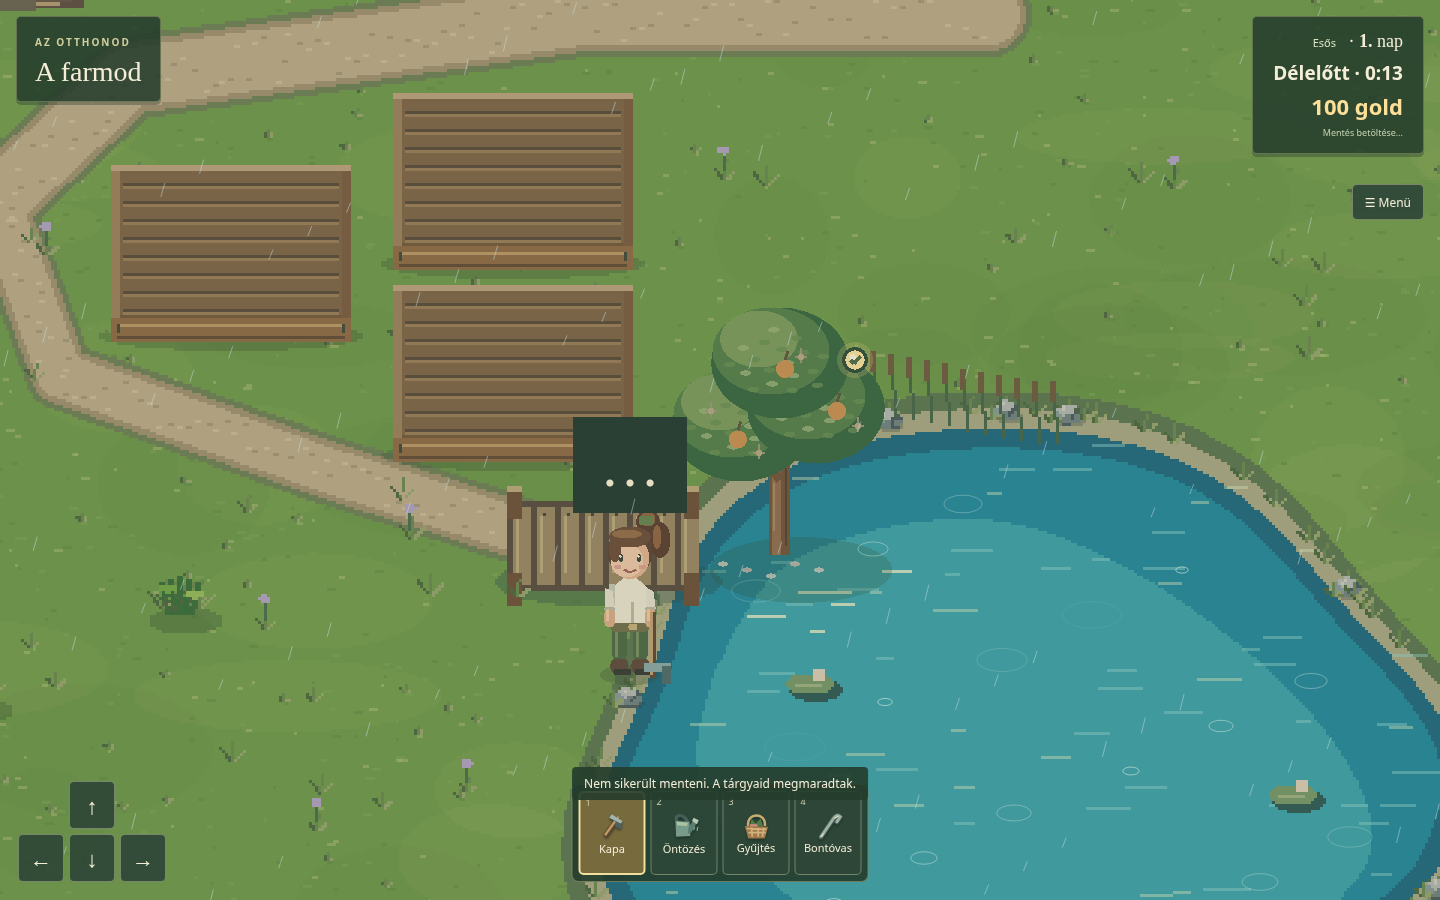
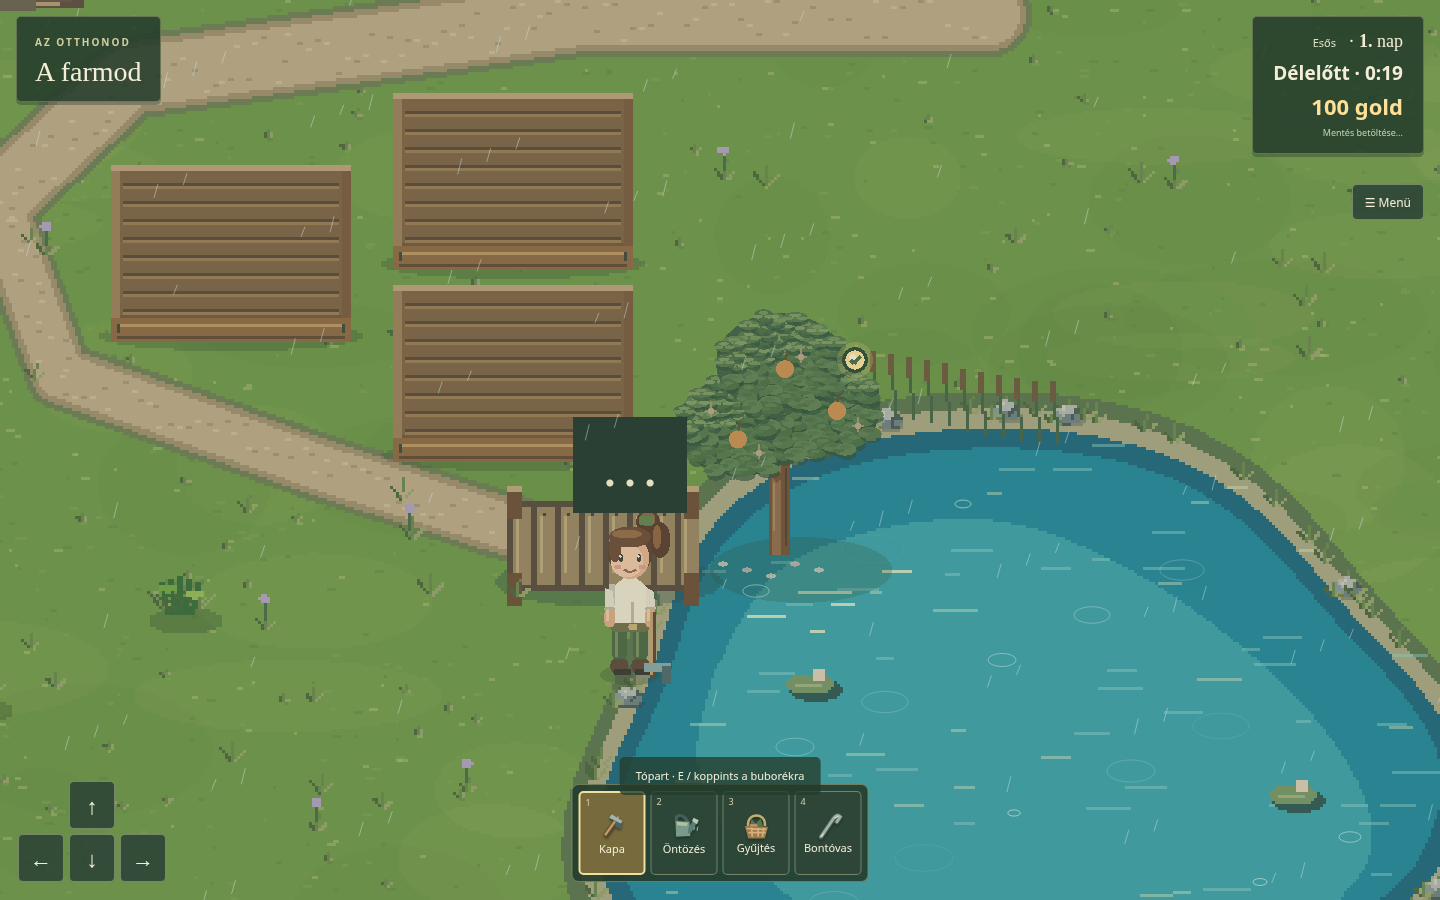
Replace broad canopy highlights with small shaded leaf sprays

Changed region(s): [[0.4688, 0.3422, 0.625, 0.56], [0.375, 0.84, 0.625, 0.9022]]

diff --git a/src/woodland-tree.ts b/src/woodland-tree.ts
@@ -1,3 +1,4 @@
+import {drawLeafCrown} from './tree-foliage';
 import {natureTreeClear} from './nature-resources';
 import Phaser from 'phaser';
 export function drawWoodlandTree(g:Phaser.GameObjects.Graphics,random:()=>number,x:number,y:number,kind:number,s=1){
@@ -18,12 +19,10 @@ export function drawWoodlandTree(g:Phaser.GameObjects.Graphics,random:()=>number
   if(kind===2){for(let i=0;i<4;i++){const yy=y-90*s+i*19*s,w=(15+i*8)*s;poly([x,yy,x-w*.31,yy+12*s,x-w*.18,yy+11*s,x-w*.68,yy+25*s,x-w*.48,yy+23*s,x-w,yy+35*s,x-w*.35,yy+32*s,x,yy+35*s,x+w*.5,yy+32*s,x+w,yy+35*s,x+w*.55,yy+22*s,x+w*.7,yy+24*s,x+w*.24,yy+10*s],i%2?0x426d52:0x365c47);poly([x-2*s,yy+4*s,x-w*.75,yy+30*s,x+6*s,yy+28*s],0x62875b,.8);for(let j=0;j<5;j++){const bx=x+(j-2)*w*.25,by=yy+(21+Math.abs(j-2)*4)*s;line(bx,by,bx-4*s,by+3*s,0x809862,.7*s,.65);line(bx+3*s,by+4*s,bx+8*s,by+6*s,0x284d3f,.8*s,.65);}}}
   else for(const[xx,yy,w,h]of [[-18,-48,45,39],[12,-56,51,47],[-3,-76,49,39],[0,-38,56,32]]){
    const cx=x+xx*s,cy=y+yy*s,rx=w*s/2,ry=h*s/2;
-   const canopy=(dx:number,dy:number,k:number,c:number)=>poly([cx+dx-rx*k,cy+dy,cx+dx-rx*.8*k,cy+dy-ry*.65*k,cx+dx-rx*.1*k,cy+dy-ry*k,cx+dx+rx*.65*k,cy+dy-ry*.8*k,cx+dx+rx*k,cy+dy-ry*.1*k,cx+dx+rx*.7*k,cy+dy+ry*.65*k,cx+dx-rx*.25*k,cy+dy+ry*.7*k],c);
-   canopy(0,0,1,kind===1?0x587644:0x35583c);canopy(-3*s,-5*s,.84,kind===1?0x87a457:0x587b47);
-   // Keep the same three random draws per leaf so scenery placement is unchanged.
-   for(let i=0;i<22;i++){const lx=cx+(random()-.5)*w*s*.75,ly=cy+(random()-.55)*h*s*.65,length=(2+random()*3)*s;
-    oval(lx,ly,length,1.6*s,[0x91a667,0x759354,0xa9b878][i%3],.72);
-    if(i%4===0){oval(lx+2*s,ly+2*s,length*.8,1.5*s,kind===1?0x6d8b50:0x456a43,.7);line(lx-1*s,ly,lx+length*.35,ly-.4*s,0xc0c990,.45*s,.55);}
-   }
+   // Consume the original shared random sequence so no scenery moves.
+   let seed=0;
+   for(let i=0;i<22;i++){const a=random(),b=random(),c=random();seed=(seed+Math.floor((a+b+c)*0x1fffffff))>>>0;}
+   drawLeafCrown(g,cx,cy,rx,ry,kind===1,seed);
+
   }
 }

diff --git a/src/tree-foliage.ts b/src/tree-foliage.ts
@@ -1,0 +1,24 @@
+import type Phaser from 'phaser';
+
+/** Small overlapping leaf sprays, shaded from top left, within the existing crown. */
+export function drawLeafCrown(g:Phaser.GameObjects.Graphics,x:number,y:number,rx:number,ry:number,birch=false,seed=1){
+ let state=seed>>>0;
+ const random=()=>{state=(Math.imul(state,1664525)+1013904223)>>>0;return state/4294967296;};
+ const base=birch?0x65814d:0x456644;
+ const middle=birch?[0x789454,0x829c5b,0x718c50]:[0x5c7d4c,0x668653,0x537447];
+ const light=birch?[0x9aaf70,0x90a568]:[0x8ba367,0x7f9b5f];
+ g.fillStyle(base).fillEllipse(x,y,rx*1.86,ry*1.8);
+ // Each spray has a small shadow and several narrow leaves. No large light disk.
+ for(let i=0;i<64;i++){
+  const angle=i*2.399963+random()*.2,r=Math.sqrt((i+.5)/64)*.9;
+  const xx=x+Math.cos(angle)*rx*r,yy=y+Math.sin(angle)*ry*r;
+  const w=rx*(.15+random()*.07),h=ry*(.10+random()*.05);
+  const lit=(yy-y)/ry+(xx-x)/rx*.3<-.12;
+  g.fillStyle(birch?0x536f43:0x35563b,.65).fillEllipse(xx+w*.12,yy+h*.65,w*1.5,h*1.6);
+  g.fillStyle(middle[i%3]).fillEllipse(xx,yy,w*1.7,h*1.7);
+  for(let j=0;j<3;j++){
+   const lx=xx+(j-1)*w*.48,ly=yy+(j%2?-.35:.15)*h;
+   g.fillStyle(lit?light[(i+j)%2]:middle[(i+j+1)%3],.85).fillEllipse(lx,ly,w*.85,h*.55);
+  }
+ }
+}

diff --git a/src/estate-art.ts b/src/estate-art.ts
@@ -1,3 +1,4 @@
+import {drawLeafCrown} from './tree-foliage';
 import {orchardGrowth} from './orchard-growth';
 import {drawTreeBlossomGaps} from './pollination-art';
 import {drawRipeMarker} from './crop-art';
@@ -11,10 +12,7 @@ export function drawEstate(scene:Phaser.Scene,estate:Estate,day:number){
   const crown=growth.canopies===1?[[0,-49]]:growth.canopies===2?[[-10,-43],[9,-56]]:[[-13,-43],[12,-49],[0,-64]];
   for(const [dx,dy]of crown){
    const cx=x+dx*s,cy=y+dy*s;
-   g.fillStyle(0x3d693f).fillEllipse(cx,cy,46*s,37*s);
-   g.fillStyle(0x5b8249).fillEllipse(cx-3*s,cy-4*s,39*s,29*s);
-   g.fillStyle(0x819e5a).fillEllipse(cx-7*s,cy-8*s,26*s,19*s);
-   for(let i=0;i<18;i++){const a=i*2.39996,r=Math.sqrt((i+.5)/18),lx=cx+Math.cos(a)*17*s*r,ly=cy+Math.sin(a)*12*s*r;g.fillStyle(i%3?0x6e9251:0xa0b477,.8).fillEllipse(lx,ly,3.8*s,1.8*s);}
+   drawLeafCrown(g,cx,cy,23*s,18.5*s,false,Math.abs(Math.round(x*31+y*17+dx*13+dy*7)));
   }
   g.lineStyle(.9*s,0x493e30,.7).lineBetween(x+2*s,y-3*s,x+2*s,y-29*s);
   g.lineStyle(.7*s,0xb09463,.8).lineBetween(x-2*s,y-8*s,x-2*s,y-24*s);

diff --git a/docs/jatekterv.md b/docs/jatekterv.md
@@ -1575,3 +1575,5 @@ Az általános gondozás továbbra is egész ágyásra vonatkozna; a szüret és
 ### Fák és falusi hirdetőtábla megjelenése — 2026-11-12
 
 A meglévő fák és a hirdetőtábla a részletesebbé vált környezethez igazodó finomítást kapnak: tagoltabb kéreg, elágazások, kisebb levélcsoportok, szabálytalanabb fenyőágak; a gyümölcsfák lombjában is finomabb fények és levelek. A fák helye, mérete, ütközése, növekedése és termése nem változik. A hirdetőtábla fa kerete, deszkázata, papírlapjai és rögzítései részletesebbek; a közlemény és az interakció változatlan. Külön tesztmód nem készül.
+
+A lomb finomításának felhasználói visszajelzése: a nagy, egymásra rajzolt világos koronafoltok túl pacásak. Ezek helyett sok kisebb, szabálytalan levélcsoport, keskeny levélfény és helyi árnyék tagolja az erdei lombos fák és a gyümölcsfák koronáját. A helyadatok és a megosztott véletlensorozat továbbra sem változik.

diff --git a/docs/qa/0.3.0-fine-foliage.md b/docs/qa/0.3.0-fine-foliage.md
@@ -1,0 +1,5 @@
+# Finomabb lomb, a nagy koronafoltok helyett
+
+A felhasználó pacásnak találta az előző lombot. A `tree-foliage.ts` közös rajzolója kis, egymást fedő levélcsoportokat rajzol helyi árnyékkal és keskeny fényekkel. A nagy világos koronakorongok megszűntek. Erdei/falusi lombos fák és gyümölcsfák használják; a fenyők, helyadatok, ütközések és játékmenet változatlanok. A közös véletlenszám-fogyasztás a régi, az új lomb részletei helyi determinisztikus sorozatból készülnek. A statikus erdő továbbra is egyszer rajzolódik.
+
+Ellenőrzés: teljes Vitest és TypeScript/Vite build, valamint elkülönített Chromium/CDP a normál rajzolással. A `production-woodland-refined-trees.png` és `production-orchard-refined-leaves.png` frissítve az új lombbal. Az elkülönített próbaadatok nem írják felül a játékos mentését.
